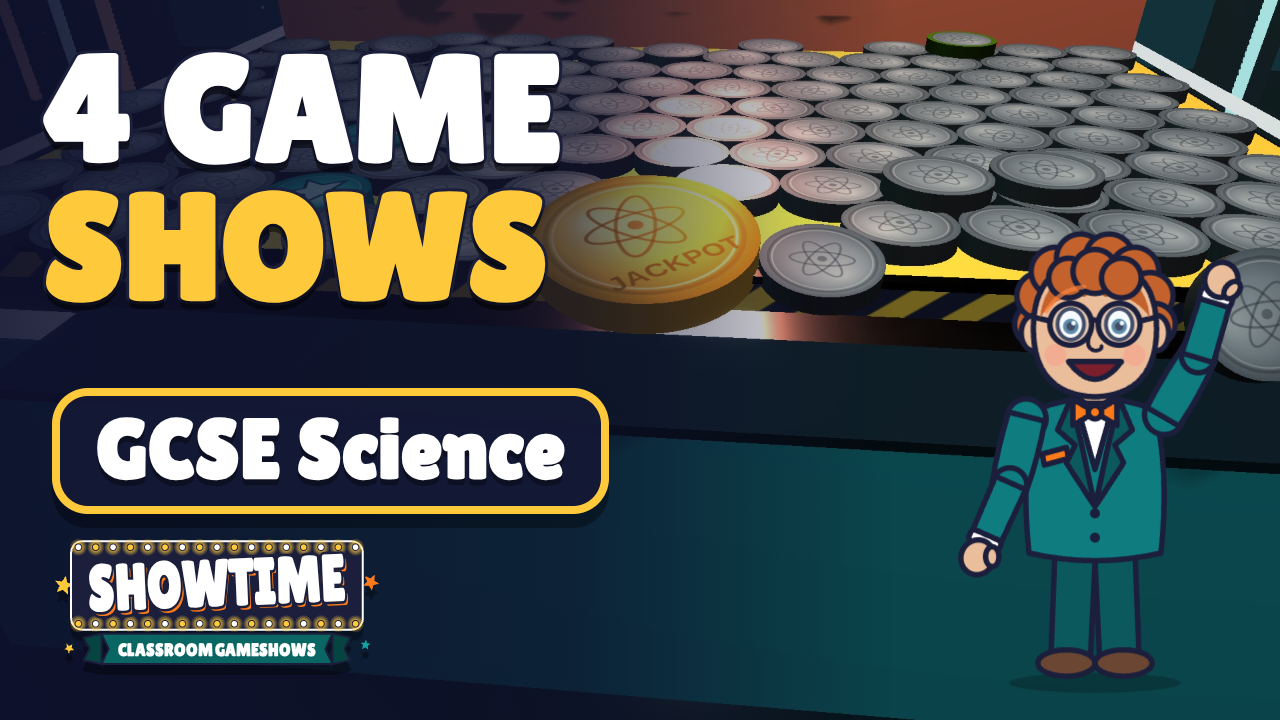
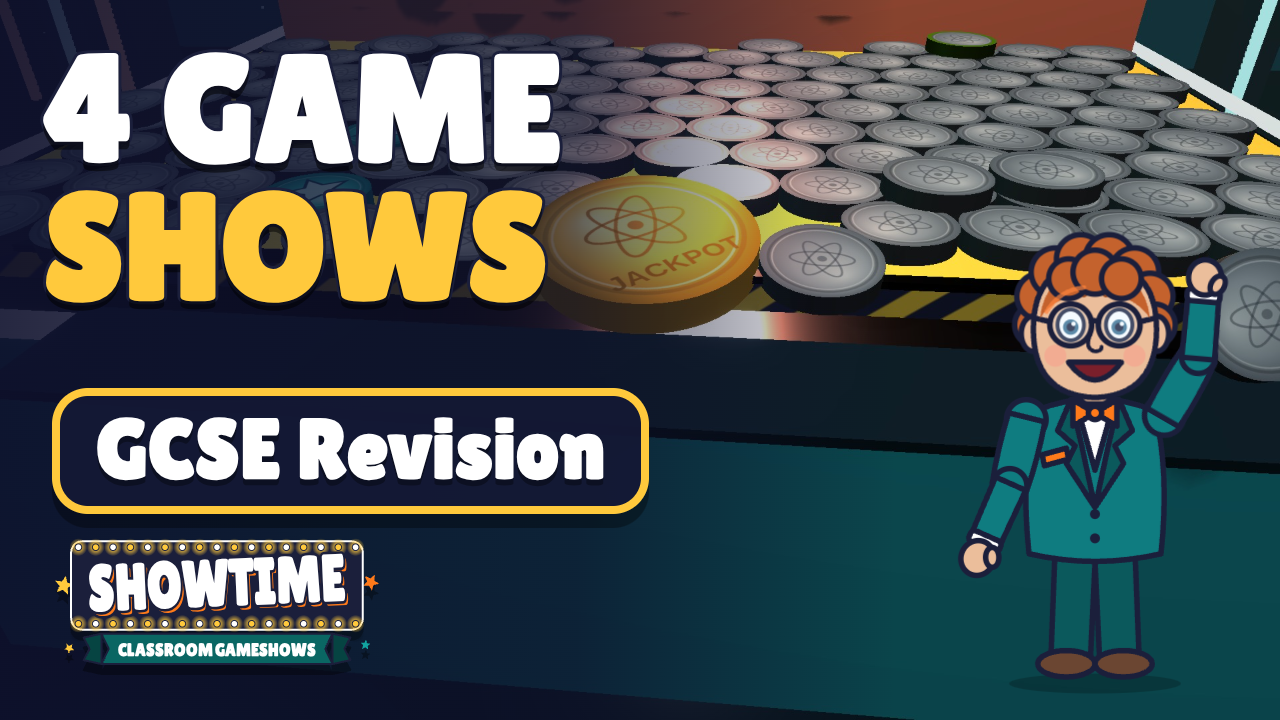
YouTube thumbnail: GCSE Revision instead of GCSE Science
Claude-Session: https://claude.ai/code/session_018ibx6pHQ1dPu2QWbrPX6Ma

diff --git a/classroom-gameshow-bundle/tools/video/demo/endcard.js b/classroom-gameshow-bundle/tools/video/demo/endcard.js
@@ -2,6 +2,7 @@
  * The demo's end card (recording only), 5 s at 60 fps on the controlled clock: the Showtime wordmark, a still
  * from each of the four games, "Try it free on Tes", "No logins · Works offline", and the host waving. Drawn by
  * the app over the launcher's own background, in its fonts and colours. Also the YouTube thumbnail.
+ *   THUMB_ONLY=1 node tools/video/demo/endcard.js  redraws only thumbnail.png
  *   node tools/video/demo/endcard.js            ->  marketing/video/work/endcard/ (frames) and marketing/video/thumbnail.png
  * The stills are frames of the rendered shots (see STILLS), so render the shots first.
  */
@@ -69,6 +70,7 @@ const CSS = `
     requestAnimationFrame(tick);
   }, stills);
   await page.evaluate(() => document.fonts.ready);
+  if (!process.env.THUMB_ONLY) {
   const s = new L.Shot(page, 'endcard'); await s.start();
   await s.run(0.4);
   await page.evaluate(() => { window.__endHost.gesture('wave', 2600); window.__endHost.talk(1200); });
@@ -76,6 +78,7 @@ const CSS = `
   await page.evaluate(() => { window.__endHost.gesture('present', 2000); });
   await s.run(1.8);
   await s.done({});
+  }
   // the YouTube thumbnail (1280×720): the most dramatic Over the Edge frame, big words, the host
   await page.setViewportSize({ width: 1280, height: 720 });
   await page.evaluate(img => {
@@ -84,7 +87,7 @@ const CSS = `
     e.innerHTML = `<div style="position:absolute;inset:0;background:url('${img}') center/cover"></div>
       <div style="position:absolute;inset:0;background:linear-gradient(90deg, rgba(14,16,44,0.9) 0%, rgba(14,16,44,0.65) 45%, rgba(14,16,44,0) 70%)"></div>
       <div style="position:absolute;left:44px;top:40px;width:760px;font-family:var(--display,'Lilita One'),sans-serif;color:#fff;font-size:150px;line-height:0.92;text-shadow:0 8px 0 rgba(0,0,0,0.5);-webkit-text-stroke:6px #1B1F3B;paint-order:stroke fill">4 GAME<br><span style="color:#FFC93C">SHOWS</span></div>
-      <div style="position:absolute;left:52px;top:388px"><span class="box" style="font-size:84px;padding:10px 36px 16px">GCSE Science</span></div>
+      <div style="position:absolute;left:52px;top:388px"><span class="box" style="font-size:84px;padding:10px 36px 16px">GCSE Revision</span></div>
       <div style="position:absolute;left:52px;top:536px;width:520px"><div class="wm" style="position:static;width:330px">${CGB.brand.wordmark()}</div></div>
       <div id="pip2" style="position:absolute;left:930px;top:150px;width:330px;height:600px"></div>`;
     document.body.appendChild(e);
